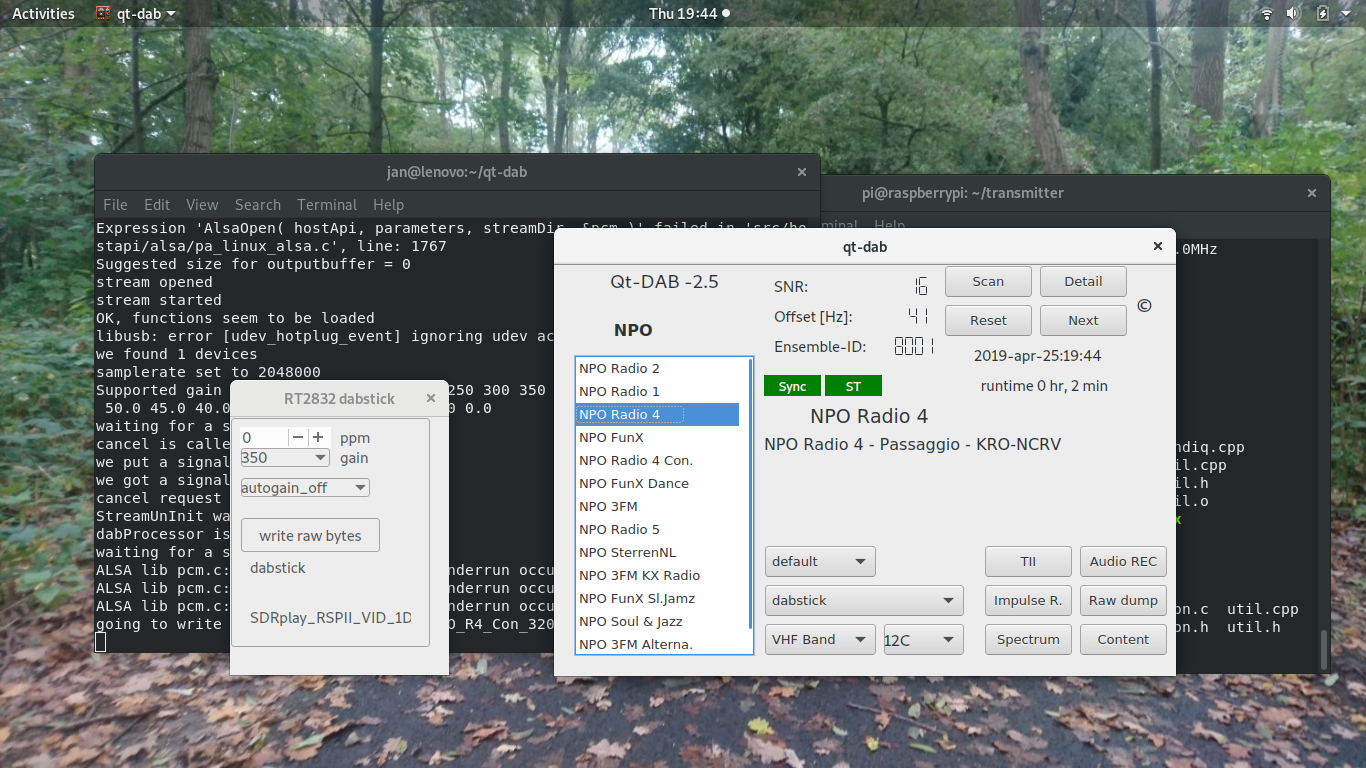
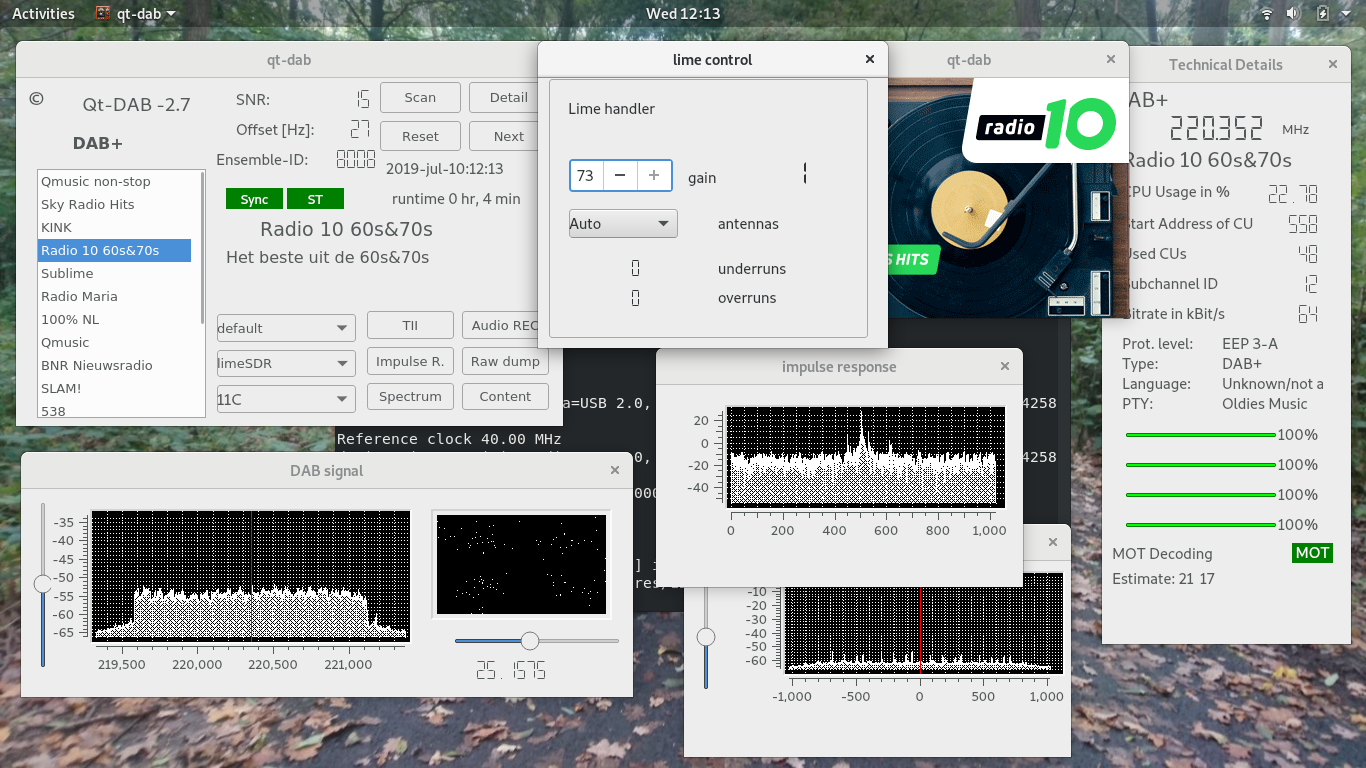
changes to resync

diff --git a/radio.cpp b/radio.cpp
@@ -220,11 +220,7 @@ QString h;
 //	restore some settings from previous incarnations
 	QString t       =
                 dabSettings     -> value ("dabBand", "VHF Band III"). toString();
-        k       = bandSelector -> findText (t);
-        if (k != -1)
-           bandSelector -> setCurrentIndex (k);
-        dabBand         = bandSelector -> currentText() == "VHF Band III" ?
-                                             BAND_III : L_BAND;
+        dabBand         = t == "VHF Band III" ?  BAND_III : L_BAND;
 
         theBand. setupChannels  (channelSelector, dabBand);
 
@@ -445,7 +441,6 @@ void	RadioInterface::dumpControlState (QSettings *s) {
 	                      channelSelector -> currentText());
 	s	-> setValue ("soundchannel",
 	                               streamoutSelector -> currentText());
-	s	-> setValue ("dabBand", bandSelector -> currentText());
 	s	-> sync();
 }
 
@@ -1260,33 +1255,6 @@ void	RadioInterface::newDevice (QString deviceName) {
 	doStart();		// will set running
 }
 
-
-void	RadioInterface::set_bandSelect (QString s) {
-bool	localRunning = running. load();
-
-	if (localRunning) {
-	   running. store (false);
-	   inputDevice	-> stopReader();
-	   inputDevice	-> resetBuffer();
-	   clearEnsemble();
-	}
-
-	if (s == "VHF Band III")
-	   dabBand	= BAND_III;
-	else
-	   dabBand	= L_BAND;
-
-	theBand. setupChannels (channelSelector, dabBand);
-	if (localRunning) {
-	   my_dabProcessor -> reset();
-	   int32_t tunedFrequency	=
-	         theBand. Frequency (dabBand, channelSelector -> currentText());
-	   inputDevice	-> setVFOFrequency (tunedFrequency);
-	   inputDevice	   -> restartReader();
-	   my_dabProcessor	-> start();
-	   running. store (true);
-	}
-}
 //
 //	Selecting a service is easy, the fib is asked to
 //	hand over the relevant data in two steps
@@ -1499,7 +1467,6 @@ void	RadioInterface::showButtons() {
 //
 	scanButton	-> show();
 	channelSelector	-> show();
-	bandSelector	-> show();
 	nextChannelButton	-> show();
 	techData. frequency	-> show();
 
@@ -1510,7 +1477,6 @@ void	RadioInterface::hideButtons() {
 //	   return;
 	scanButton	-> hide();
 	channelSelector	-> hide();
-	bandSelector	-> hide();
 	dumpButton	-> hide();
 	nextChannelButton	-> hide();
 	techData. frequency	-> hide();
@@ -1705,8 +1671,6 @@ void	RadioInterface::connectGUI() {
 	         this, SLOT (set_Scanning (void)));
 	connect (nextChannelButton, SIGNAL (clicked (void)),
 	         this, SLOT (set_nextChannel (void)));
-	connect (bandSelector, SIGNAL (activated (const QString &)),
-	         this, SLOT (set_bandSelect (const QString &)));
 	connect (dumpButton, SIGNAL (clicked (void)),
 	         this, SLOT (set_sourceDump (void)));
 	connect (audioDumpButton, SIGNAL (clicked (void)),
@@ -1732,8 +1696,6 @@ void	RadioInterface::disconnectGUI() {
 	               this, SLOT (set_Scanning (void)));
 	   disconnect (nextChannelButton, SIGNAL (clicked (void)),
 	               this, SLOT (set_nextChannel (void)));
-	   disconnect (bandSelector, SIGNAL (activated (const QString &)),
-	               this, SLOT (set_bandSelect (const QString &)));
 	   disconnect (dumpButton, SIGNAL (clicked (void)),
 	               this, SLOT (set_sourceDump (void)));
 	   disconnect (audioDumpButton, SIGNAL (clicked (void)),

diff --git a/dab-processor.cpp b/dab-processor.cpp
@@ -371,10 +371,10 @@ SyncOnPhase:
 //	is - more or less - ambiguous, in which case the computation
 //	of the frequency correction hopelessly fails
 
-	   if (!correctionNeeded && (abs (arg (FreqCorr)) > 1.8)) {
+//	   if (!correctionNeeded && (abs (arg (FreqCorr)) > 1.8)) {
 //	      fprintf (stderr, "resyncing %d %f\n", startIndex, arg (FreqCorr));
-	      goto notSynced;
-	   }
+//	      goto notSynced;
+//	   }
 
 	   fineOffset += 0.05 * arg (FreqCorr) / (2 * M_PI) * carrierDiff;
 

diff --git a/includes/dab-constants.h b/includes/dab-constants.h
@@ -64,7 +64,7 @@ using namespace std;
 #define	MHz(x)		(KHz (x) * 1000)
 #define	mHz(x)		(kHz (x) * 1000)
 
-#define	CURRENT_VERSION	"2.6"
+#define	CURRENT_VERSION	"2.7"
 
 #define		DAB		0100
 #define		DAB_PLUS	0101

diff --git a/radio.h b/radio.h
@@ -202,7 +202,6 @@ private slots:
 	void		autoCorrector_on();
 
 	void		newDevice		(QString);
-	void		set_bandSelect		(QString s);
 
 	void		selectService		(QModelIndex);
 	void		selectService		(QString);

diff --git a/README.md b/README.md
@@ -3,23 +3,48 @@
 Qt-DAB is a Software for Windows, Linux and Raspberry Pi for listening to terrestrial Digital Audio Broadcasting (DAB and DAB+). It is the successor of both DAB-rpi and sdr-j-DAB, two former programs by the same author.
 
 ------------------------------------------------------------------
-NEW in 2.6
+NEW in 2.7
 ------------------------------------------------------------------
 
 New devices:
-a. the LimeSDR is now supported (due to missing a decent "dll" file
-for the library, for now in Linux only)
-b. as an experimental feature, a Soapy interface is implemented. Tested
-with the SDRplay and the LimeSDR it works.
-In the appImage the Soapy support is NOT included.
 
-Issue adddressed:
-One of the issues to be resolved was resycnhronization. It could
+ a) the LimeSDR is now supported (due to missing a decent "dll" file
+for the library, for now in Linux only);
+
+ b) as an experimental feature, a Soapy interface is implemented. Tested
+with the SDRplay and the LimeSDR it works.
+Soapy support is included in neither the appImage nor the Windows version.
+
+Synchronization reconsidered
+
+One of the issues to be resolved was resynchronization. It could
 happen that - due to some faulty input - the synchronization
-got lost. 
+got lost and could not be regained without a reset.
+
 The chain of events leading to such a loss of synchronization is
 identified and chance that - due to some faulty input - synchronization
 will be lost is - at least - much smaller.
+
+Obsolete properties
+
+The DAB standard eliminated the support for Modes other than Mode 1 and
+Bands other than VHF Band III. The implementation still supports these
+features, however, since they are obsolete, there are no controls on the
+GUI anymore (the control for the Mode was already removed from earlier
+versions). 
+Explicitly setting the Mode and/or the Band is possible by 
+including some command lines in the ".qt-dab.ini" file.
+
+For the Mode, one will add/set a line
+
+	dabMode=Mode x, where x is either 1, 2 or 4
+
+For the Band, one will add/set a line
+
+	dabBand=band, where band is either VHF Band III or L_Band
+
+Since the control for the dab band is now removed from the GUI, this GUI
+could be made slightly smaller.
 
 
 ------------------------------------------------------------------
@@ -83,7 +108,7 @@ Introduction
 
 ![Qt-DAB with sdrplay input](/qt-dab-1.png?raw=true)
 
-**Qt-DAB-2.6* is an implementation of a DAB decoder for use on Linux and Windows based PC's, including some ARM based boards, such as the Raspberry PI, both 2 and 3.
+**Qt-DAB-2.7* is an implementation of a DAB decoder for use on Linux and Windows based PC's, including some ARM based boards, such as the Raspberry PI, both 2 and 3.
 
 Beside to Qt-DAB, there exists a "light" version, **dabradio**, an SDRPlay-specific version **sdrplayDab** , a command-line based version and a stand-alone
 server version **dab-server**. All these versions with a GUI are implemented in C++, using the Qt framework for the implementation of the GUI. The command-line version is implemented using C++, and does not depend on Qt.
@@ -128,8 +153,6 @@ Windows
 
 For windows there is an installer, to be found in the releases section, https://github.com/JvanKatwijk/qt-dab/releases. The installer will install the executable as well as required libraries.
 The installer will also call the official installer for the dll implementing the api for getting access to the SDRplay devices.
-
-Furthermore, the releases section contains a "zipped" folder, with executables for this and other programs.
 
 If you want to compile it by yourself, please install Qt through its online installer, see https://www.qt.io/ 
 
@@ -433,7 +456,8 @@ First of all the incoming signal is weak and audio packages do not pass the many
 
 A second reason has to do with system parameters. Too small a buffersize in the audio driver causes too high a frequency of calls to a callback function. In Linux this shows by an underrun reported by the alsa sound system. The buffer size can be set (in multiples of 256 audio samples) by the value of "latency" in the `.ini` file. The default value is 1.
 
-On my RPI 2 - with Stretch - `latency=2` works best.
+On my RPI 2 - with Stretch - `latency=2` works best, on my RPI 3 there is
+no problem whatsoever.
 
 # Copyright
 
